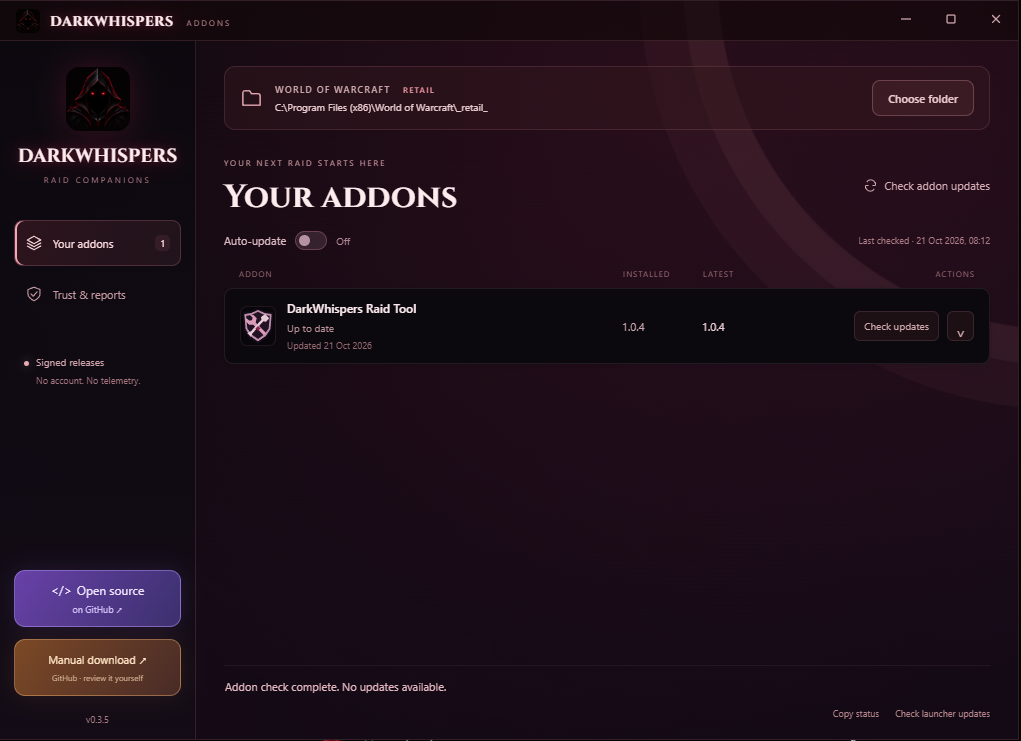
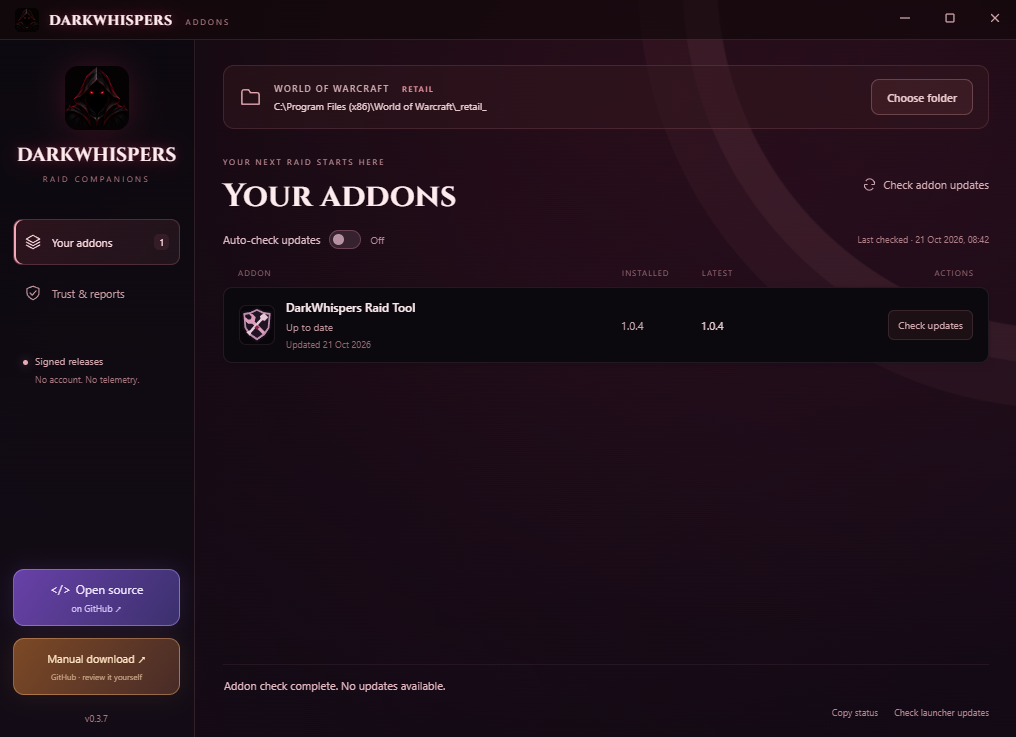
Refresh website demo with the supplied launcher 0.3.7 screenshot

diff --git a/website/public/index.html b/website/public/index.html
@@ -21,7 +21,7 @@
   <div class="page-layout">
     <aside class="demo-panel launcher-demo" aria-labelledby="launcher-demo-title">
       <p class="demo-eyebrow">THE LAUNCHER</p><h2 id="launcher-demo-title">Your addons. Your choice.</h2>
-      <button type="button" class="demo-frame" data-demo="launcher" aria-label="Enlarge launcher screenshot"><img src="/assets/launcher-demo.webp" width="1021" height="741" alt="DarkWhispers launcher with its addon list" decoding="async"></button>
+      <button type="button" class="demo-frame" data-demo="launcher" aria-label="Enlarge launcher screenshot"><img src="/assets/launcher-demo.webp" width="1016" height="737" alt="DarkWhispers launcher with its addon list" decoding="async"></button>
       <p>Install, update and remove addons.<br>Every addon change needs your approval.</p>
     </aside>
   <main class="sanctum">
